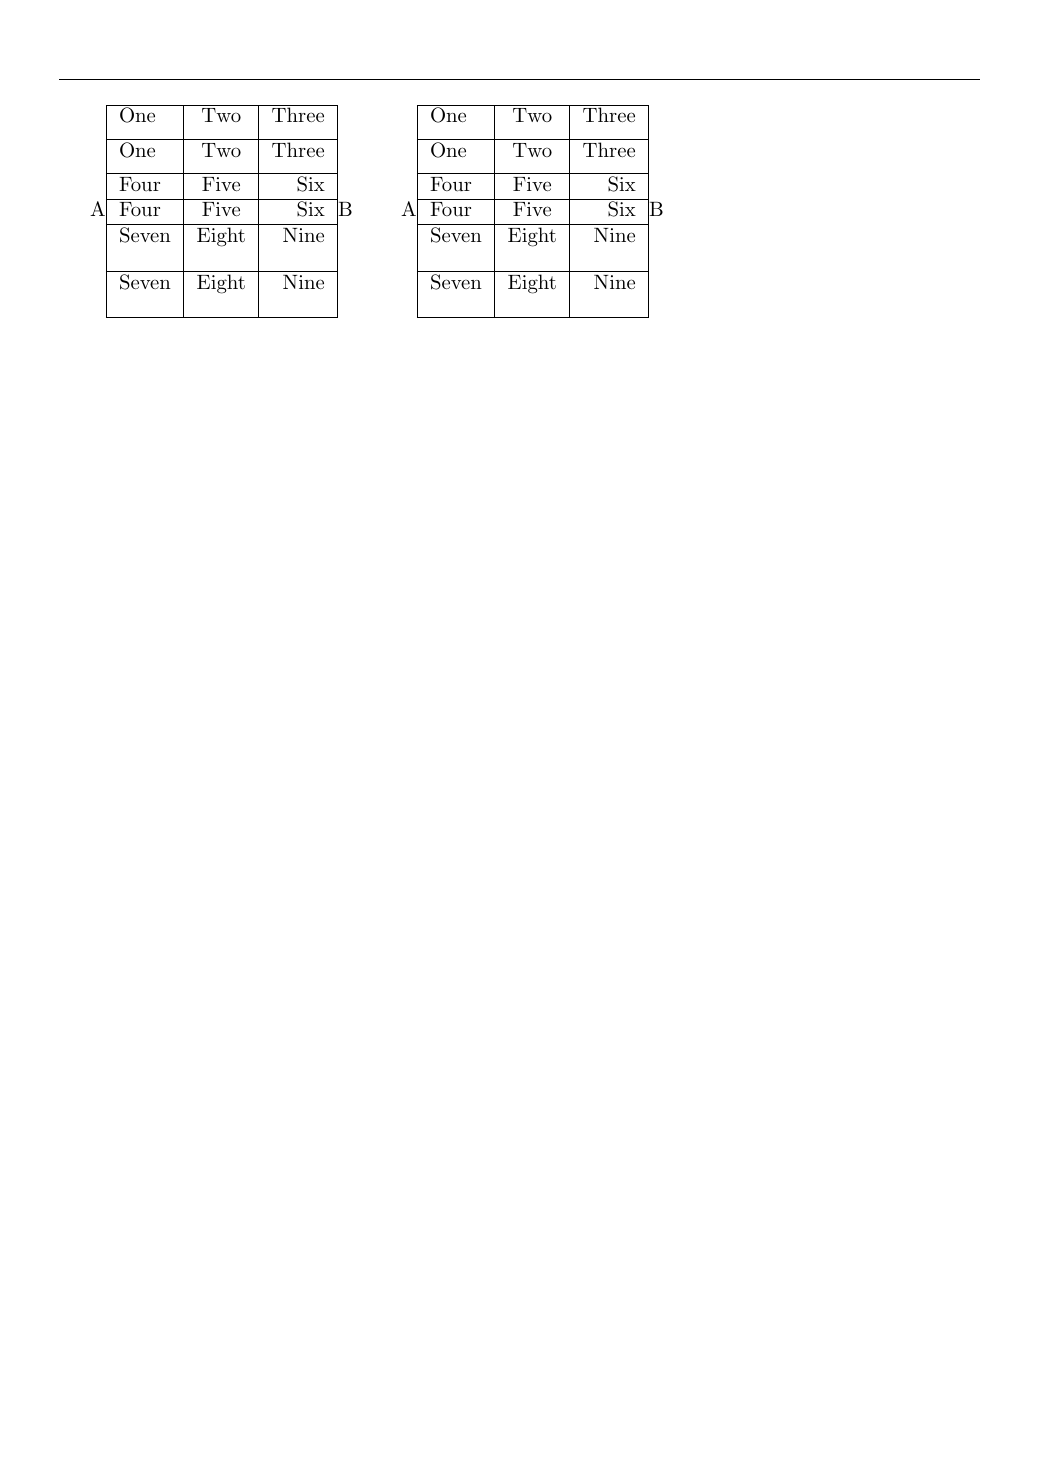
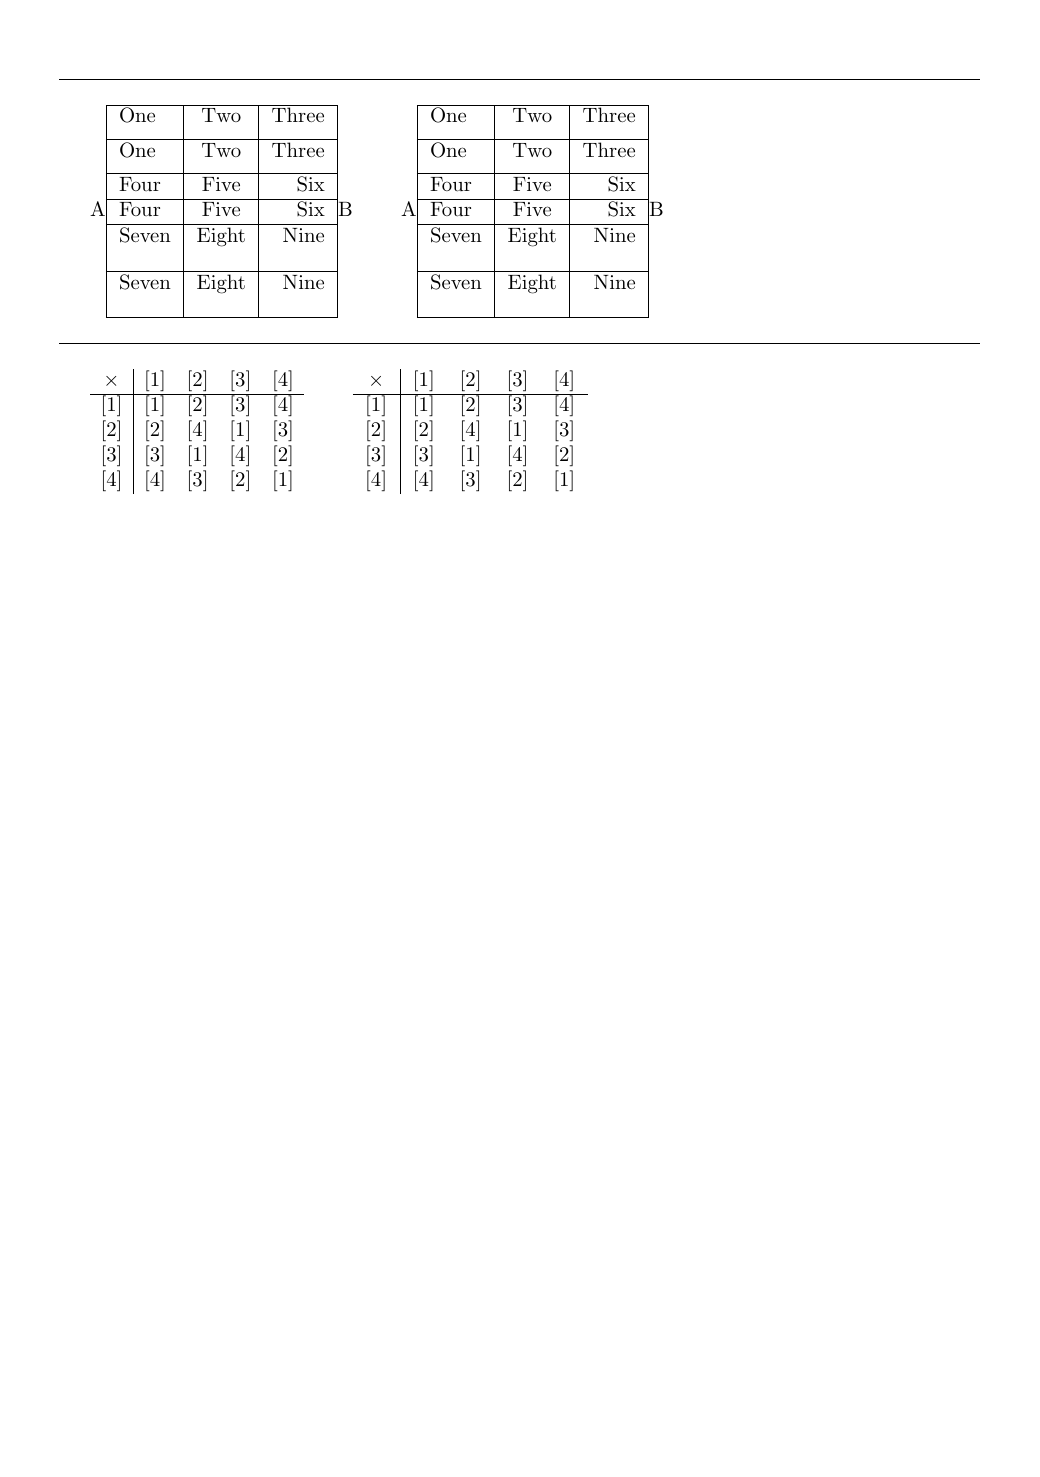
replace \scan_stop: with \q_stop (#20)

diff --git a/testfiles/rowcol-003.tex b/testfiles/rowcol-003.tex
@@ -15,7 +15,7 @@
 \hrule\bigskip
 
 \BEGINTEST{testing \\*[dimen]}
-\SetTblrDefault{rows={rowsep=0pt}}
+\SetTblrDefault{rowsep=0pt}
 A\begin{tabular}{|l|c|r|}
 \hline
 One   &  Two  & Three \\ [4pt]
@@ -47,6 +47,30 @@ Seven & Eight &  Nine \\  *[1em]
 Seven & Eight &  Nine \\  * [1em]
 \hline
 \end{tblr}B
+\ENDTEST
+
+\bigskip\hrule\bigskip
+
+%% Issue 20: \relax after \\ or \hline creates column bunching
+\BEGINTEST{testing \\\relax and \hline\relax}
+\SetTblrDefault{rowsep=0pt}
+$\begin{array}{c|cccc}
+ \times & [1] & [2] & [3] & [4] \\
+\hline\relax
+ [1] & [1] & [2] & [3] & [4] \\\relax
+ [2] & [2] & [4] & [1] & [3] \\ \relax
+ [3] & [3] & [1] & [4] & [2] \\  \relax
+ [4] & [4] & [3] & [2] & [1]
+\end{array}$
+\qquad
+$\begin{tblr}{c|cccc}
+ \times & [1] & [2] & [3] & [4] \\
+\hline\relax
+ [1] & [1] & [2] & [3] & [4] \\\relax
+ [2] & [2] & [4] & [1] & [3] \\ \relax
+ [3] & [3] & [1] & [4] & [2] \\  \relax
+ [4] & [4] & [3] & [2] & [1]
+\end{tblr}$
 \ENDTEST
 
 \end{document}
